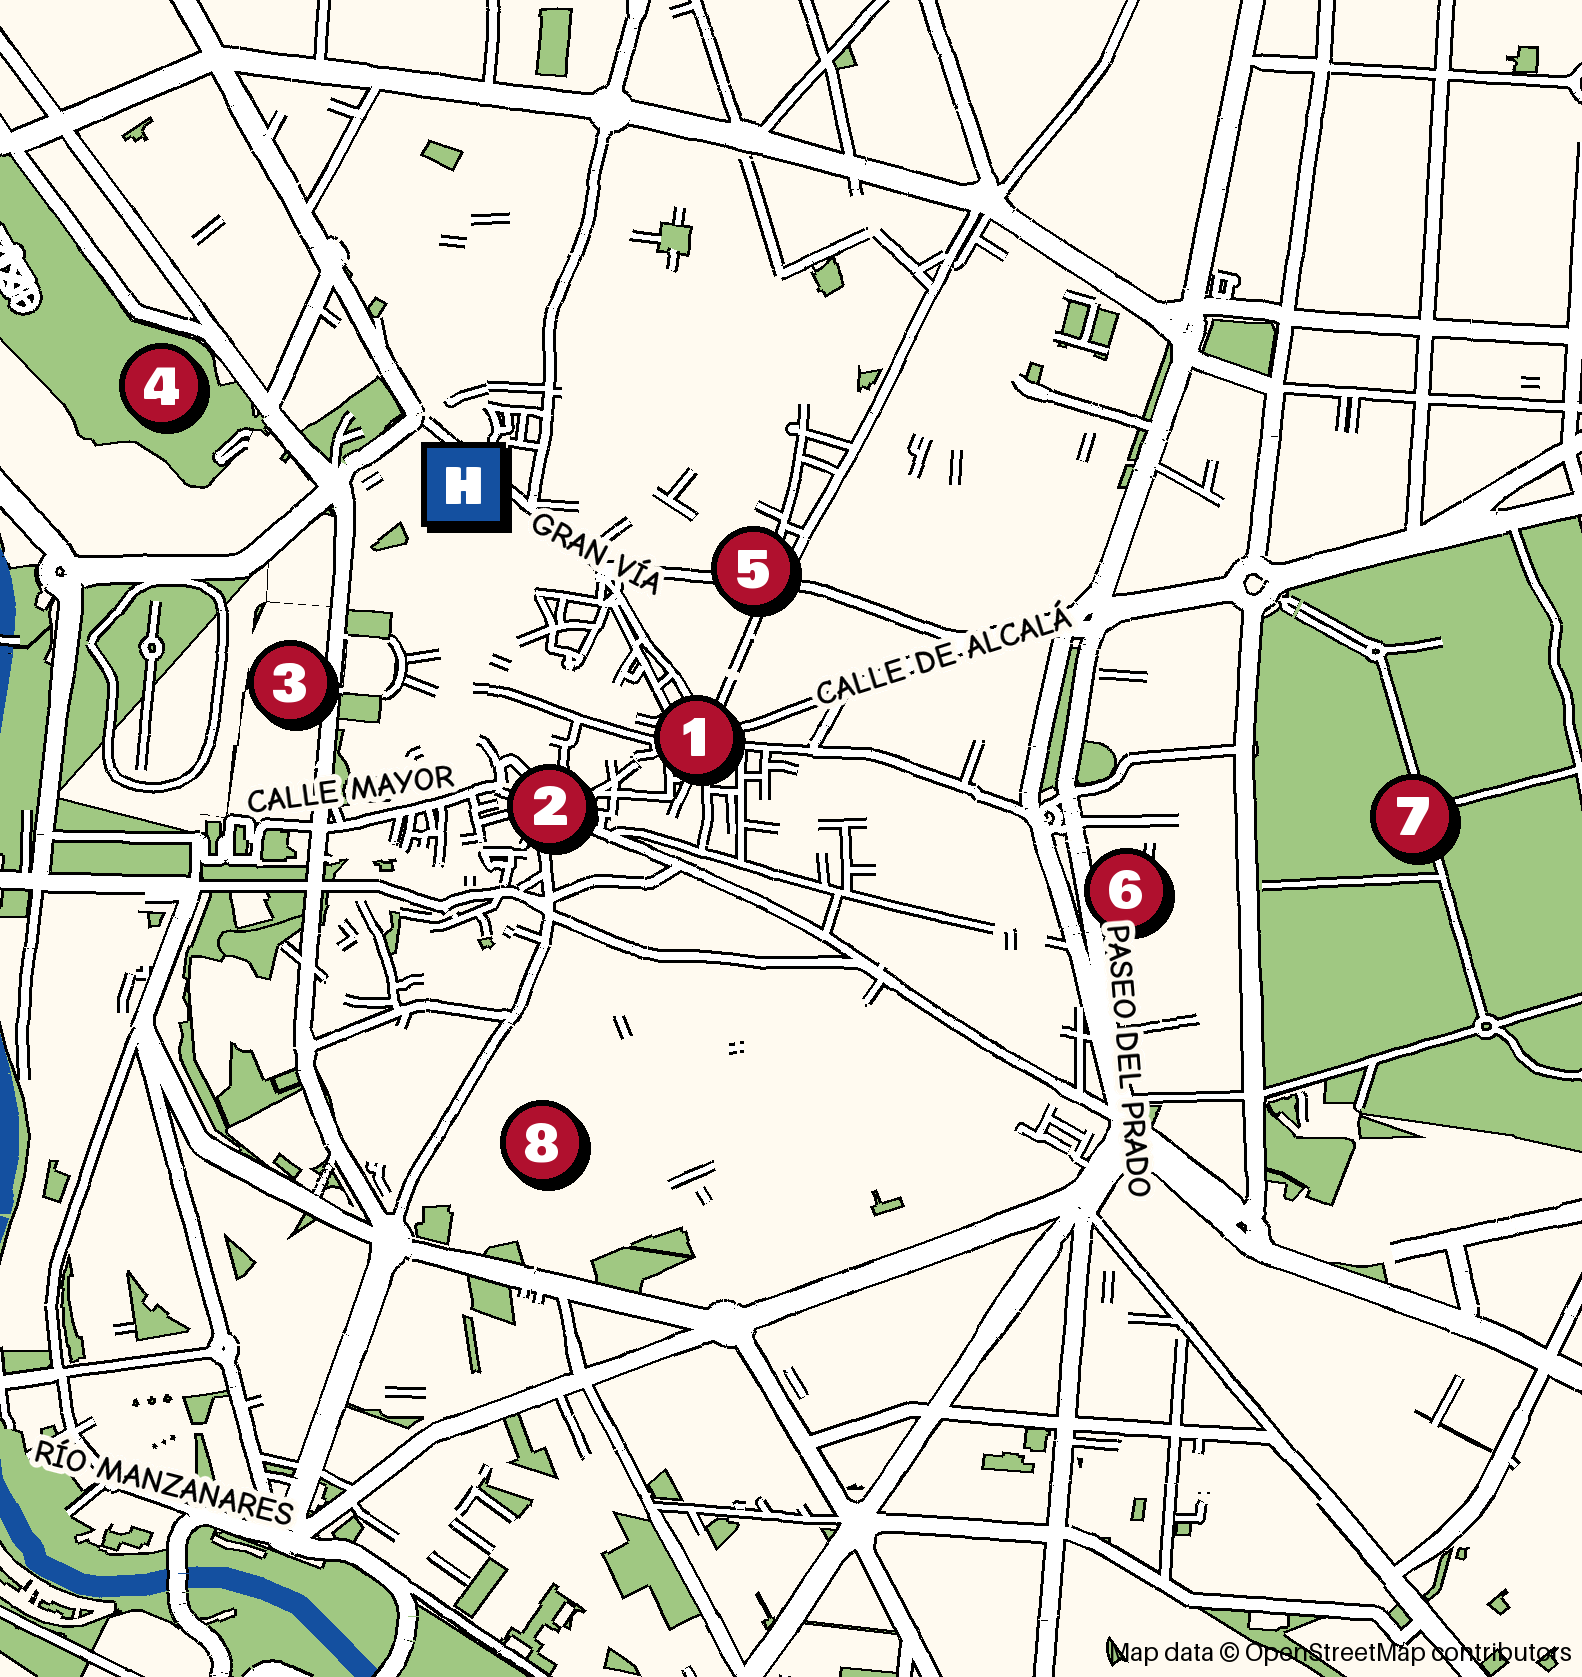
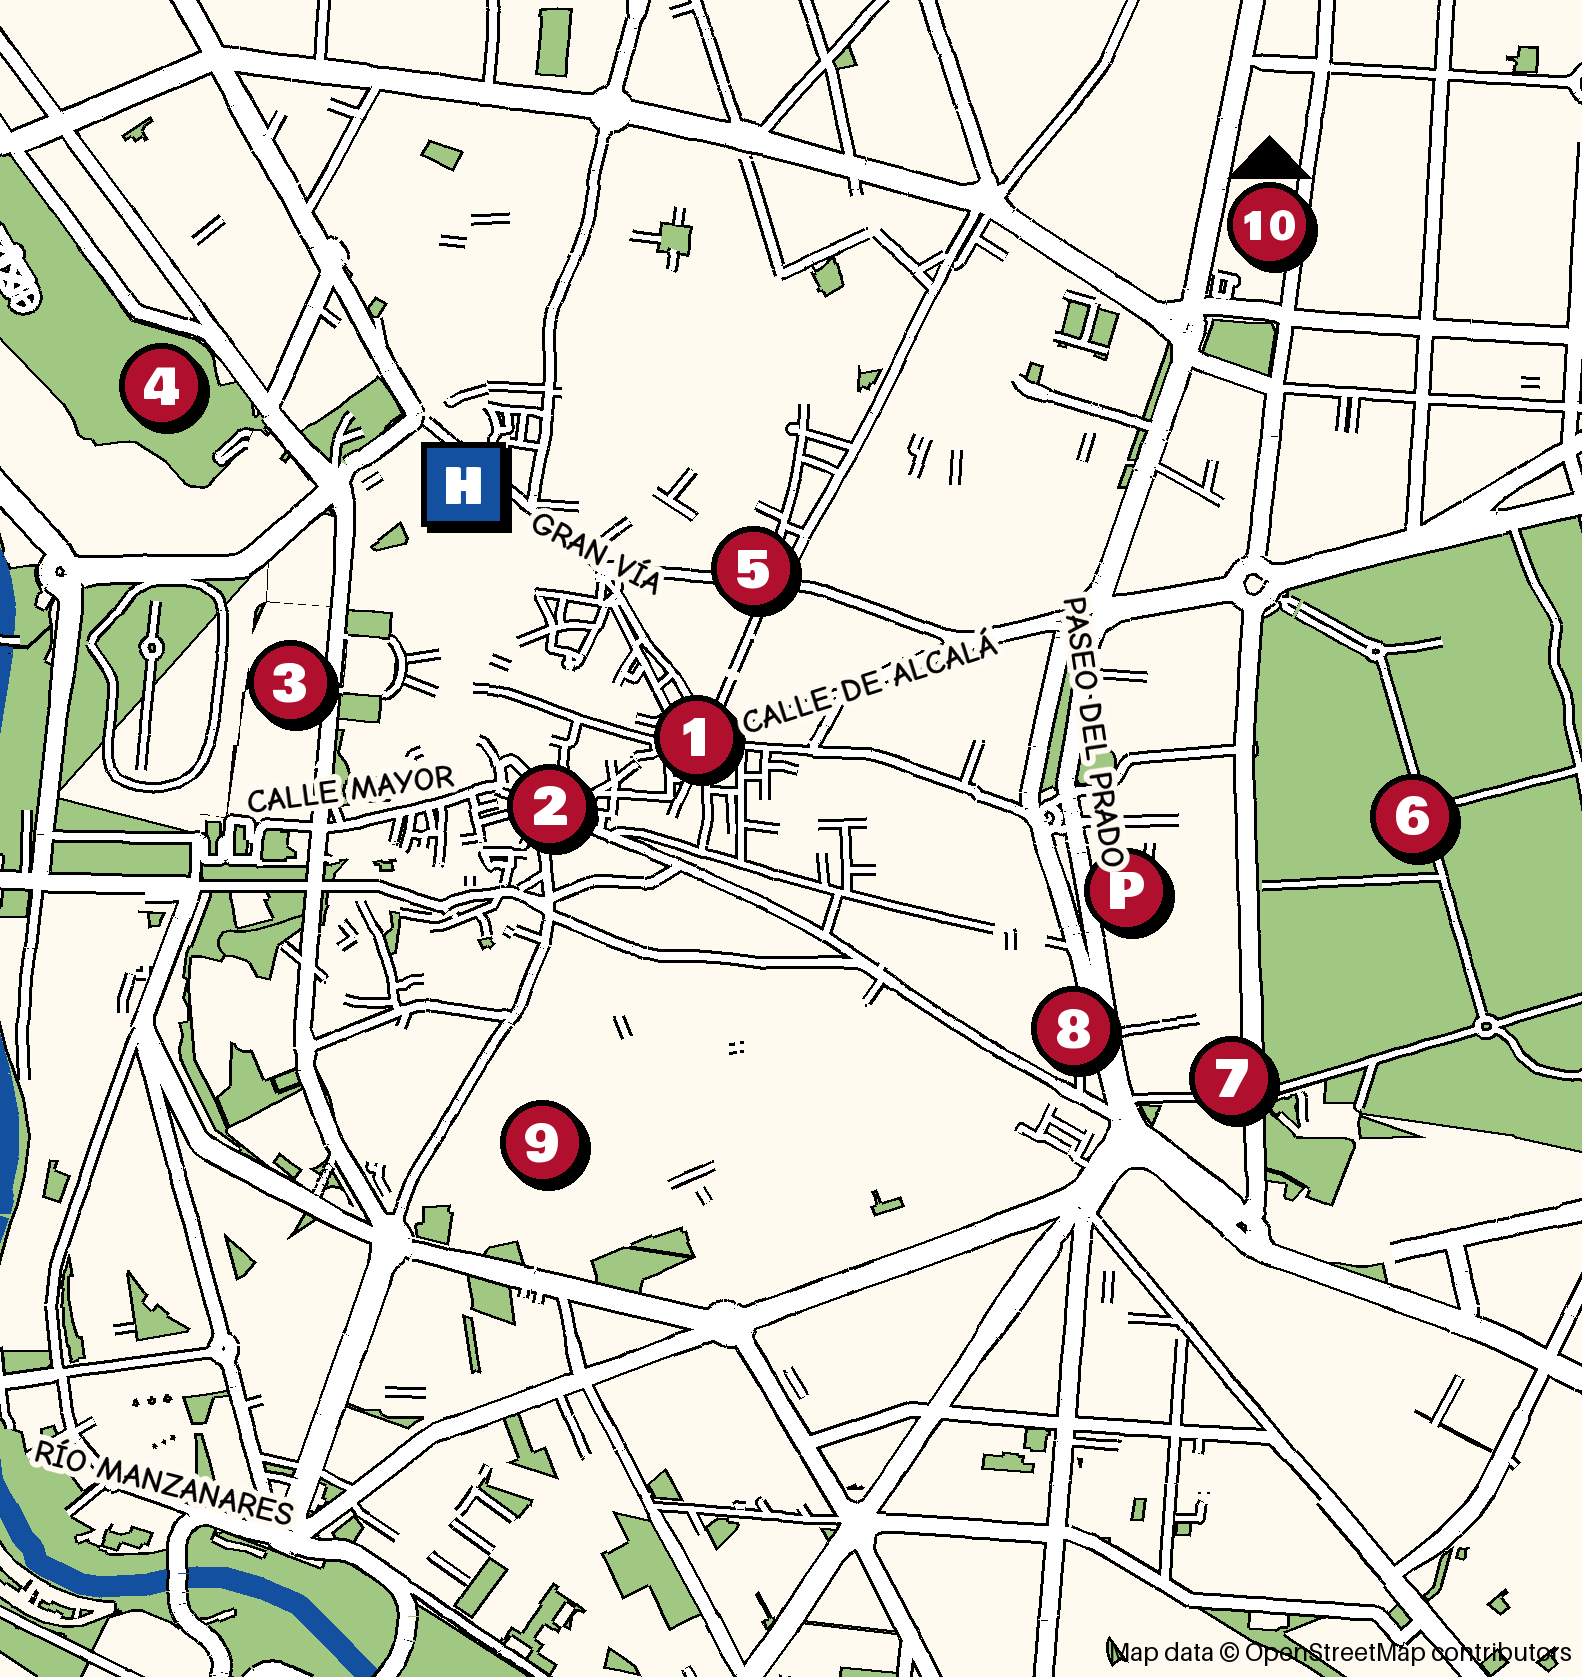
add CaixaForum, Botánico, jamón; Bernabéu and Prado on the map

diff --git a/index.html b/index.html
@@ -259,6 +259,12 @@
   .roomy h3 { font-size: 14pt; }
   .roomy .checks { font-size: 15pt; }
   .roomy .checks li { margin-bottom: 7mm; }
+  /* Go see pages hold five cards each */
+  .roomy.five .small { font-size: 10pt; margin: 0.6mm 0 0; }
+  .roomy.five h3 { font-size: 12.5pt; margin: 0; }
+  .five .panel { padding: 2mm 3mm; }
+  .five .card { grid-template-columns: 30mm 1fr; gap: 3mm; }
+  .five .card .photo img { height: 22mm; }
 
   /* ---------- Checklist ---------- */
   .checks { list-style: none; padding: 0; margin: 0; columns: 2; column-gap: 4mm; }
@@ -366,20 +372,23 @@
 <!-- PAGE 5: MAP -->
 <section class="page">
   <h2 class="title">Where everything is</h2>
-  <div class="art" style="height: 140mm"><img style="object-position: bottom" src="art/map.png" alt="Map of central Madrid with the eight spots numbered"></div>
+  <div class="art" style="height: 134mm"><img style="object-position: bottom" src="art/map.png" alt="Map of central Madrid with the ten spots numbered"></div>
   <div class="panel small grid2">
     <div>
       <p>1 Puerta del Sol and Km 0</p>
       <p>2 Plaza Mayor</p>
       <p>3 Palacio Real</p>
       <p>4 Templo de Debod</p>
-      <p><b>H</b> Our hotel, Grupotel Mayorazgo</p>
+      <p>5 Gran Vía</p>
+      <p><b>P</b> Museo del Prado</p>
     </div>
     <div>
-      <p>5 Gran Vía</p>
-      <p>6 Museo del Prado</p>
-      <p>7 El Retiro</p>
-      <p>8 El Rastro, La Latina</p>
+      <p>6 El Retiro</p>
+      <p>7 Real Jardín Botánico</p>
+      <p>8 CaixaForum</p>
+      <p>9 El Rastro, La Latina</p>
+      <p>10 Bernabéu, north on L10</p>
+      <p><b>H</b> Our hotel, Grupotel Mayorazgo</p>
     </div>
   </div>
   <span class="folio">5</span>
@@ -423,7 +432,7 @@
 </section>
 
 <!-- PAGES 7-8: SIGHTSEEING -->
-<section class="page roomy">
+<section class="page roomy five">
   <h2 class="title">Go see</h2>
   <div class="panel card">
     <figure class="photo"><img src="art/photos/sol.jpg" alt="Puerta del Sol"><figcaption class="credit">Photo: Viennevi, CC BY-SA 3.0</figcaption></figure>
@@ -448,30 +457,40 @@
     <p class="small">An Egyptian temple in a park. Go at sunset, around 17:50: it's the best free view in Madrid. Closed inside on Mondays.</p>
     <p class="small skip">Skip if: you're going in daylight. It's the sunset that makes it.</p></div>
   </div>
-  <span class="folio">7</span>
-</section>
-
-<section class="page roomy left">
-  <h2 class="title">Go see, part 2</h2>
   <div class="panel card">
     <figure class="photo"><img src="art/photos/granvia.jpg" alt="The Metrópolis building on Gran Vía"><figcaption class="credit">Photo: Diego Delso, CC BY-SA 4.0</figcaption></figure>
     <div><h3>5. <a href="https://www.google.com/maps/search/?api=1&query=Gran+Via+Madrid">Gran Vía</a> <span class="metro">Gran Vía L1 L5</span></h3>
     <p class="small">Madrid's main street: theatres, shops and early-1900s buildings. Look up at the Metrópolis dome.</p></div>
   </div>
+  <span class="folio">7</span>
+</section>
+
+<section class="page roomy five left">
+  <h2 class="title">Go see, part 2</h2>
   <div class="panel card">
     <figure class="photo tilt-r"><img src="art/photos/retiro.jpg" alt="Palacio de Cristal in the Retiro"><figcaption class="credit">Photo: Diego Delso, CC BY-SA 4.0</figcaption></figure>
     <div><h3>6. <a href="https://www.google.com/maps/search/?api=1&query=Parque+del+Retiro+Madrid">El Retiro</a> <span class="metro">Retiro L2</span></h3>
     <p class="small">Rowing boats on the lake, the glass Palacio de Cristal, and the Fallen Angel, one of the few statues of the devil in any city.</p></div>
   </div>
   <div class="panel card">
+    <figure class="photo"><img src="art/photos/botanico.jpg" alt="A fountain in the Real Jardín Botánico"><figcaption class="credit">Photo: Diego Delso, CC BY-SA 4.0</figcaption></figure>
+    <div><h3>7. <a href="https://www.google.com/maps/search/?api=1&query=Real+Jardin+Botanico+Madrid">Real Jardín Botánico</a> <span class="metro">Estación del Arte L1</span></h3>
+    <p class="small">Right next to the Prado: greenhouses, terraces and quiet paths. Founded in 1755 and moved here by Charles III, the king who also built the Prado's building. Open 10:00 to 18:00 in November.</p></div>
+  </div>
+  <div class="panel card">
+    <figure class="photo tilt-r"><img src="art/photos/caixa.jpg" alt="CaixaForum and its vertical garden"><figcaption class="credit">Photo: Javier Martín, public domain</figcaption></figure>
+    <div><h3>8. <a href="https://www.google.com/maps/search/?api=1&query=CaixaForum+Madrid">CaixaForum</a> <span class="metro">Estación del Arte L1</span></h3>
+    <p class="small">An old power station that seems to float: the architects cut away its ground floor. Next to it is a whole wall of living plants by Patrick Blanc. Art shows inside, open 10:00 to 20:00.</p></div>
+  </div>
+  <div class="panel card">
     <figure class="photo"><img src="art/photos/rastro.jpg" alt="El Rastro"><figcaption class="credit">Photo: Pablo Alberto Salguero Quiles, CC BY-SA 3.0</figcaption></figure>
-    <div><h3>7. <a href="https://www.google.com/maps/search/?api=1&query=El+Rastro+Madrid">El Rastro</a> <span class="metro">La Latina L5</span></h3>
+    <div><h3>9. <a href="https://www.google.com/maps/search/?api=1&query=El+Rastro+Madrid">El Rastro</a> <span class="metro">La Latina L5</span></h3>
     <p class="small">A huge street flea market, Sunday mornings only. Sunday 29 November is the morning we fly home, so only if the programme allows. Vintage clothes, vinyl, old comics.</p>
     <p class="small skip">Skip if: you'd rather sleep in. It runs 09:00 to 15:00.</p></div>
   </div>
   <div class="panel card">
     <figure class="photo tilt-r"><img src="art/photos/bernabeu.jpg" alt="Santiago Bernabéu stadium"><figcaption class="credit">Photo: MottaW, CC BY 4.0</figcaption></figure>
-    <div><h3>8. <a href="https://www.google.com/maps/search/?api=1&query=Estadio+Santiago+Bernabeu">Santiago Bernabéu</a> <span class="metro">Santiago Bernabéu L10</span></h3>
+    <div><h3>10. <a href="https://www.google.com/maps/search/?api=1&query=Estadio+Santiago+Bernabeu">Santiago Bernabéu</a> <span class="metro">Santiago Bernabéu L10</span></h3>
     <p class="small">Real Madrid's stadium, rebuilt with a retractable roof. The tour takes you to the dressing room and the pitch side. Tickets from €37 online, €40 at the door.</p></div>
   </div>
   <span class="folio">8</span>
@@ -498,6 +517,10 @@
       <p class="small"><a href="https://www.google.com/maps/search/?api=1&query=Mercado+de+San+Miguel+Madrid">San Miguel</a> is beautiful and expensive. <a href="https://www.google.com/maps/search/?api=1&query=Mercado+de+San+Anton+Madrid">San Antón</a> in Chueca is cheaper and more local.</p>
     </div>
   </div>
+  <div class="panel">
+    <h3>Jamón</h3>
+    <p class="small">Cured ham, hanging from the ceiling of half the bars. <i>Serrano</i> is the everyday one. <i>Ibérico de bellota</i>, from acorn-fed black pigs, is the best and priciest. Cheapest way in: a <i>bocadillo de jamón</i> at <a href="https://www.google.com/maps/search/?api=1&query=Museo+del+Jamon+Madrid">Museo del Jamón</a>.</p>
+  </div>
   <div class="panel dots-red">
     <h3><a href="https://www.google.com/maps/search/?api=1&query=Chocolateria+San+Gines+Madrid">Chocolatería San Ginés</a>, since 1894</h3>
     <p class="small">Churros dipped in chocolate so thick the spoon stands up. Open all day and very late. Order <i>chocolate con churros</i> or the thicker <i>porras</i>.</p>
@@ -513,7 +536,7 @@
     </div>
   </div>
   <div class="bubble small">
-    <p><b>Meal times will catch you out.</b> Lunch is about 13:30 to 15:30 and dinner starts around 21:00. A restaurant that's empty at 19:30 isn't bad, it's just early.</p>
+    <p><b>Meal times will catch you out.</b> Lunch is about 13:30 to 15:30 and dinner starts around 21:00. Empty at 19:30 isn't bad, just early.</p>
   </div>
   <span class="folio">9</span>
 </section>

diff --git a/tools/map.py b/tools/map.py
@@ -28,17 +28,20 @@ SPOTS = {
     3: (40.4180, -3.7143),  # Palacio Real
     4: (40.4240, -3.7177),  # Templo de Debod
     5: (40.4203, -3.7020),  # Gran Vía
-    6: (40.4138, -3.6921),  # Prado
-    7: (40.4153, -3.6845),  # Retiro lake
-    8: (40.4087, -3.7076),  # El Rastro
+    "P": (40.4138, -3.6921),  # Prado
+    6: (40.4153, -3.6845),  # Retiro lake
+    7: (40.4100, -3.6893),  # Real Jardín Botánico
+    8: (40.4110, -3.6935),  # CaixaForum
+    9: (40.4087, -3.7076),  # El Rastro
 }
+BERNABEU_LON = -3.6883  # the stadium is ~2.4 km north of the map's top edge
 HOTEL = (40.4220, -3.7097)  # Grupotel Mayorazgo, Calle de la Flor Baja 3 (OSM node 11603023656)
 
 # street names, written along the street: (name, start lat/lon, end lat/lon)
 STREETS = [
     ("GRAN VÍA", (40.4213, -3.7076), (40.4201, -3.7046)),
-    ("CALLE DE ALCALÁ", (40.4180, -3.6995), (40.4192, -3.6945)),
-    ("PASEO DEL PRADO", (40.4122, -3.6922), (40.4085, -3.6918)),
+    ("CALLE DE ALCALÁ", (40.4175, -3.7012), (40.4186, -3.6967)),
+    ("PASEO DEL PRADO", (40.4188, -3.6933), (40.4152, -3.6926)),
     ("CALLE MAYOR", (40.4160, -3.7112), (40.4157, -3.7142)),
     ("RÍO MANZANARES", (40.4026, -3.7212), (40.4012, -3.7140)),
 ]
@@ -128,7 +131,7 @@ def main(out):
         d.line(pts, fill=INK, width=size + 6, joint="curve")
     for pts, size in roads:
         d.line(pts, fill="white", width=size, joint="curve")
-    # numbered spots, matching pages 7 and 8
+    # numbered spots, matching pages 7 and 8 (P is the Prado, page 6)
     font = ImageFont.truetype(BOWLBY, int(4.2 * MM))
     r = int(3.6 * MM)
     for n, (lat, lon) in SPOTS.items():
@@ -136,6 +139,13 @@ def main(out):
         d.ellipse([x - r + 6, y - r + 6, x + r + 6, y + r + 6], fill=INK)
         d.ellipse([x - r, y - r, x + r, y + r], fill=CRIMSON, outline=INK, width=6)
         d.text((x, y + 2), str(n), fill="white", font=font, anchor="mm")
+    # spot 10, the Bernabéu, is off the map: a pin on the top edge with an arrow pointing north
+    x, y = xy(0, BERNABEU_LON)[0], int(19 * MM)
+    d.polygon([(x - r, y - r - 4), (x + r, y - r - 4), (x, y - r - int(4 * MM))], fill=INK)
+    d.ellipse([x - r + 6, y - r + 6, x + r + 6, y + r + 6], fill=INK)
+    d.ellipse([x - r, y - r, x + r, y + r], fill=CRIMSON, outline=INK, width=6)
+    small_num = ImageFont.truetype(BOWLBY, int(3.2 * MM))
+    d.text((x, y + 2), "10", fill="white", font=small_num, anchor="mm")
     label_font = ImageFont.truetype(LETTERING, int(2.8 * MM))
     for name, start, end in STREETS:
         street_label(img, name, xy(*start), xy(*end), label_font)

diff --git a/tools/photos.py b/tools/photos.py
@@ -40,6 +40,8 @@ SLOTS = {
     "granvia": ("Edificio Metrópolis, calle de Alcalá, Madrid, España, 2017-05-18, DD 08.jpg", *THUMB, (0, 0, 1, 1)),
     "retiro": ("Palacio de Cristal, Parque del Retiro, Madrid, España, 2017-05-18, DD 21.jpg", *THUMB, (0, 0, 1, 1)),
     "rastro": ("Rastro de Madrid (España) 1.jpg", *THUMB, (0, 0, 1, 1)),
+    "caixa": ("CaixaForumMadridyJardinVertical.jpg", *THUMB, (0, 0, 1, 1)),
+    "botanico": ("Real Jardín Botánico, Madrid, España, 2017-05-18, DD 38.jpg", *THUMB, (0, 0, 1, 1)),
     "bernabeu": ("M-estadio-santiago-bernabeu-diciembre-2024-a.jpg", *THUMB, (0, 0, 1, 1)),
     # Toledo, page 10
     "toledo": ("Vista de Toledo desde el mirador del Valle 02.jpg", 134, 52, (0, 0, 1, 1)),

diff --git a/SOURCES.md b/SOURCES.md
@@ -44,6 +44,12 @@ LEGEND = a story, told as one in the brochure. CHECK = sources disagree, confirm
 - Gran Vía, Metrópolis building: https://www.esmadrid.com/en/tourist-information/la-gran-via
 - Retiro and the Fallen Angel (Bellver, 1885): https://en.wikipedia.org/wiki/Fuente_del_%C3%81ngel_Ca%C3%ADdo
 - El Rastro, Sundays 9:00-15:00: https://www.esmadrid.com/en/shopping/el-rastro
+- Real Jardín Botánico, founded 1755 by Ferdinand VI, moved to the Paseo del Prado by Charles III, opened there 1781, entrance next to the Prado: https://en.wikipedia.org/wiki/Real_Jard%C3%ADn_Bot%C3%A1nico_de_Madrid
+- Botánico open 10:00 to 18:00 in November (CHECK on rjb.csic.es, sources disagree, one says 17:30): https://www.esmadrid.com/informacion-turistica/real-jardin-botanico
+- Prado building commissioned by Charles III (Villanueva): https://en.wikipedia.org/wiki/Museo_del_Prado
+- CaixaForum: former Central del Mediodía power station, Herzog & de Meuron, opened 2008, vertical garden by Patrick Blanc: https://en.wikipedia.org/wiki/CaixaForum_Madrid
+- CaixaForum floating effect from removing the ground floor: https://es.wikipedia.org/wiki/CaixaForum_Madrid
+- CaixaForum open daily 10:00 to 20:00 (checked 23 Nov 2026): https://www.timeout.es/madrid/es/arte/caixaforum
 - Bernabéu tour, general public from €37 online, €40 at the ticket office (checked 22 Oct 2026): https://www.realmadrid.com/es-ES/tour-bernabeu
 - Plaza Mayor Christmas market: runs late November to 31 December, 2026 dates not announced, so the brochure only says "every Christmas": https://www.articulo14.es/espana-por-la-igualdad/comunidad-de-madrid/mercado-de-navidad-en-la-plaza-mayor-de-madrid-fechas-y-horarios-20241127.html
 
@@ -53,6 +59,8 @@ LEGEND = a story, told as one in the brochure. CHECK = sources disagree, confirm
 - Cocido in three rounds: https://www.theculturetrip.com/europe/spain/articles/cocido-madrileno-the-stew-that-has-sustained-madrid-for-six-hundred-years
 - Markets: https://doeatbetterexperience.com/es/blog/mercado-san-miguel-y-mas-alla-mercados-madrid/
 - Meal times: https://www.hosteltur.com/madrid-responde/en/times-lunch-dinner-madrid
+- Jamón serrano (white pigs) vs ibérico (black Iberian pigs), bellota = acorn-fed, top grade: https://en.wikipedia.org/wiki/Jam%C3%B3n_ib%C3%A9rico
+- Museo del Jamón, Madrid bar chain known for cheap ham bocadillos: https://www.esmadrid.com/en/restaurants/museo-del-jamon
 - San Ginés, 1894; open late, 24h Thu-Sun per Time Out (sources disagree, hence "open all day and very late"): https://www.timeout.es/madrid/es/bares-y-pubs/chocolateria-san-gines
 - La Violeta, 1915: https://www.esmadrid.com/node/70203
 
